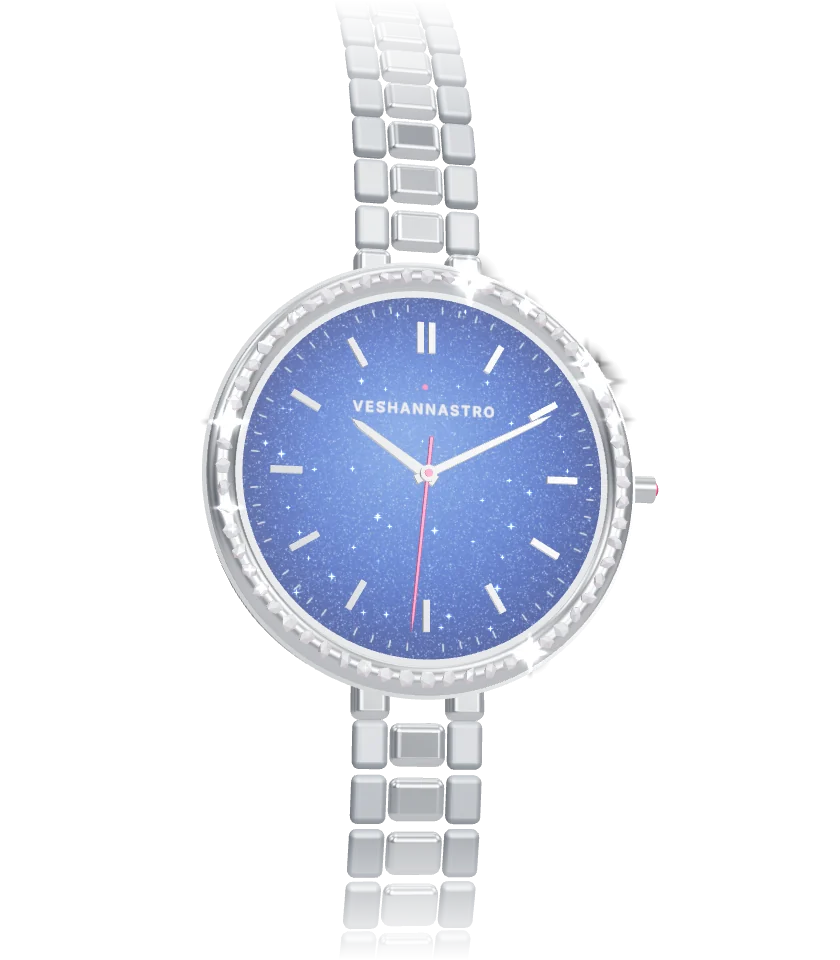
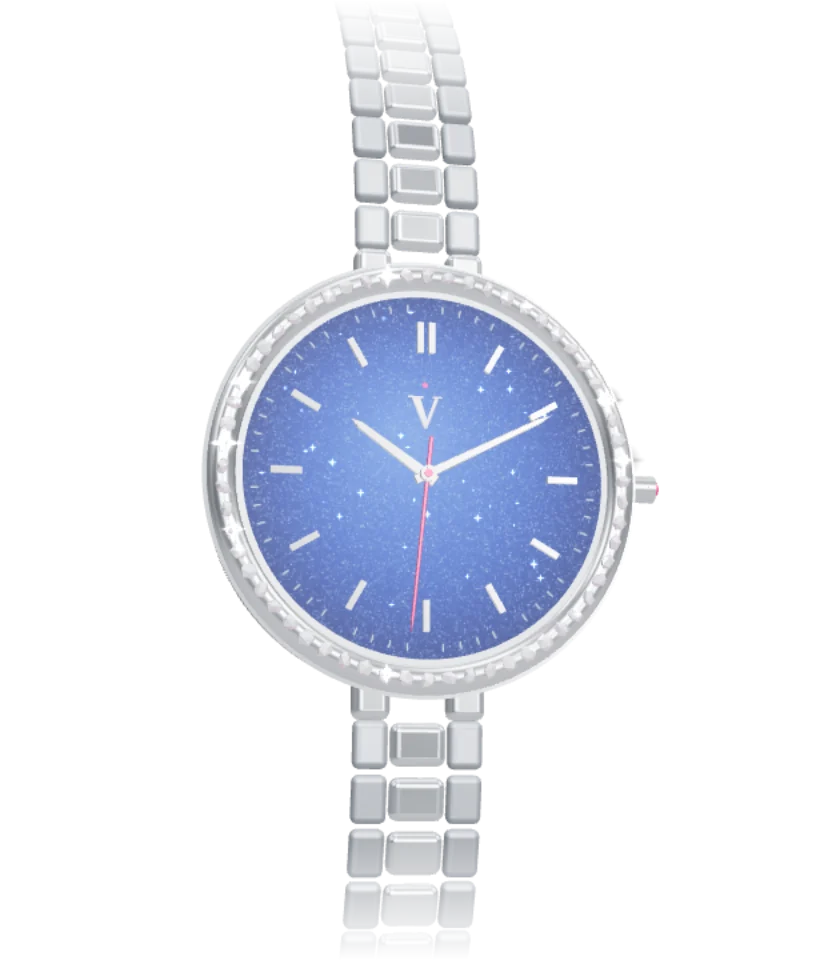
Price ₹6,750 struck to FREE; V monogram on the watch dial
Claude-Session: https://claude.ai/code/session_01FzJLP9mUnAeQhe4ZLcLKUt

diff --git a/mobile-numerology/web/src/components/watch3d.js b/mobile-numerology/web/src/components/watch3d.js
@@ -44,14 +44,28 @@ function dialTexture(maxAniso) {
     g.lineTo(S / 2 + Math.cos(a) * S * 0.475, S / 2 + Math.sin(a) * S * 0.475);
     g.stroke();
   }
-  // brand under 12
-  g.fillStyle = 'rgba(232,236,242,0.95)';
-  g.textAlign = 'center';
-  g.font = '600 40px "League Spartan", "Helvetica Neue", Arial, sans-serif';
-  if ('letterSpacing' in g) g.letterSpacing = '6px';
-  g.fillText('VESHANNASTRO', S / 2, S * 0.33);
+  // the monogram under 12: a high-contrast V (thick left stroke, hairline right, fine serifs), as a jeweller
+  // would engrave it, in polished silver, under the brand's pink dot
+  const cx = S / 2, y0 = S * 0.282, h = 90, k = 1.2;
+  const silver = g.createLinearGradient(0, y0, 0, y0 + h);
+  silver.addColorStop(0, '#FFFFFF'); silver.addColorStop(0.55, '#DCE3EE'); silver.addColorStop(1, '#AEB9CB');
+  g.fillStyle = silver;
+  g.shadowColor = 'rgba(4, 14, 40, 0.55)'; g.shadowBlur = 4; g.shadowOffsetY = 2;
+  g.beginPath();
+  g.moveTo(cx - 31 * k, y0);            // thick stroke, outer top
+  g.lineTo(cx - 14 * k, y0);            // thick stroke, inner top
+  g.lineTo(cx + 4 * k, y0 + h * 0.74);  // where the two strokes meet inside
+  g.lineTo(cx + 26 * k, y0);            // hairline, inner top
+  g.lineTo(cx + 31 * k, y0);            // hairline, outer top
+  g.lineTo(cx + 4 * k, y0 + h);         // the point
+  g.lineTo(cx - 2 * k, y0 + h);
+  g.closePath();
+  g.fill();
+  g.fillRect(cx - 40 * k, y0, 35 * k, 3.5);   // serifs
+  g.fillRect(cx + 19 * k, y0, 21 * k, 2.5);
+  g.shadowColor = 'transparent'; g.shadowBlur = 0; g.shadowOffsetY = 0;
   g.fillStyle = PINK;
-  g.beginPath(); g.arc(S / 2, S * 0.255, 7, 0, TAU); g.fill();
+  g.beginPath(); g.arc(cx, S * 0.25, 7, 0, TAU); g.fill();
   const t = new CanvasTexture(c);
   t.colorSpace = SRGBColorSpace;
   t.anisotropy = Math.min(8, maxAniso);

diff --git a/veshannastro-suite/web/src/components/watch3d.js b/veshannastro-suite/web/src/components/watch3d.js
@@ -44,14 +44,28 @@ function dialTexture(maxAniso) {
     g.lineTo(S / 2 + Math.cos(a) * S * 0.475, S / 2 + Math.sin(a) * S * 0.475);
     g.stroke();
   }
-  // brand under 12
-  g.fillStyle = 'rgba(232,236,242,0.95)';
-  g.textAlign = 'center';
-  g.font = '600 40px "League Spartan", "Helvetica Neue", Arial, sans-serif';
-  if ('letterSpacing' in g) g.letterSpacing = '6px';
-  g.fillText('VESHANNASTRO', S / 2, S * 0.33);
+  // the monogram under 12: a high-contrast V (thick left stroke, hairline right, fine serifs), as a jeweller
+  // would engrave it, in polished silver, under the brand's pink dot
+  const cx = S / 2, y0 = S * 0.282, h = 90, k = 1.2;
+  const silver = g.createLinearGradient(0, y0, 0, y0 + h);
+  silver.addColorStop(0, '#FFFFFF'); silver.addColorStop(0.55, '#DCE3EE'); silver.addColorStop(1, '#AEB9CB');
+  g.fillStyle = silver;
+  g.shadowColor = 'rgba(4, 14, 40, 0.55)'; g.shadowBlur = 4; g.shadowOffsetY = 2;
+  g.beginPath();
+  g.moveTo(cx - 31 * k, y0);            // thick stroke, outer top
+  g.lineTo(cx - 14 * k, y0);            // thick stroke, inner top
+  g.lineTo(cx + 4 * k, y0 + h * 0.74);  // where the two strokes meet inside
+  g.lineTo(cx + 26 * k, y0);            // hairline, inner top
+  g.lineTo(cx + 31 * k, y0);            // hairline, outer top
+  g.lineTo(cx + 4 * k, y0 + h);         // the point
+  g.lineTo(cx - 2 * k, y0 + h);
+  g.closePath();
+  g.fill();
+  g.fillRect(cx - 40 * k, y0, 35 * k, 3.5);   // serifs
+  g.fillRect(cx + 19 * k, y0, 21 * k, 2.5);
+  g.shadowColor = 'transparent'; g.shadowBlur = 0; g.shadowOffsetY = 0;
   g.fillStyle = PINK;
-  g.beginPath(); g.arc(S / 2, S * 0.255, 7, 0, TAU); g.fill();
+  g.beginPath(); g.arc(cx, S * 0.25, 7, 0, TAU); g.fill();
   const t = new CanvasTexture(c);
   t.colorSpace = SRGBColorSpace;
   t.anisotropy = Math.min(8, maxAniso);

diff --git a/veshannastro-suite/web/src/components/PriceCut.jsx b/veshannastro-suite/web/src/components/PriceCut.jsx
@@ -1,8 +1,8 @@
 import React, { useEffect, useRef, useState } from 'react';
 
-// "Your first watch reading is ₹675 FREE": when the line comes into view, a fine gold stroke cuts through the price,
+// "Your first watch reading is ₹6,750 FREE": when the line comes into view, a fine gold stroke cuts through the price,
 // the price fades back, and FREE settles in gold capitals with one slow shimmer. Plays once.
-export default function PriceCut({ was = '₹675', className = '' }) {
+export default function PriceCut({ was = '₹6,750', className = '' }) {
   const ref = useRef(null);
   const [play, setPlay] = useState(false);
 
